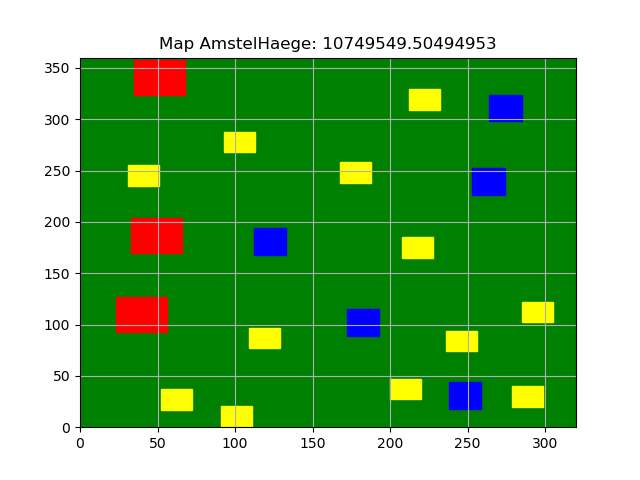
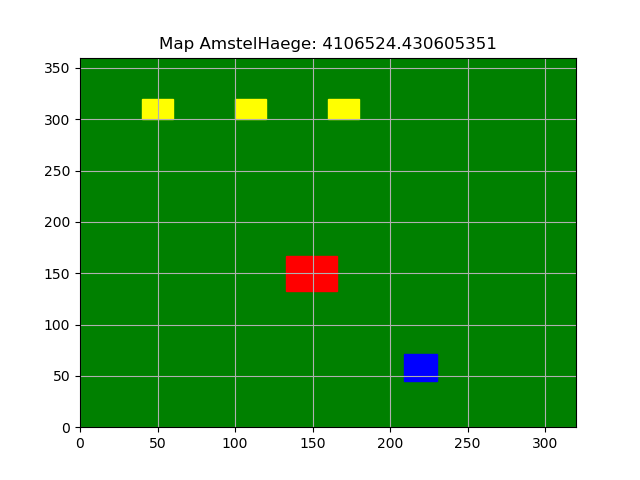
area back to what it was

diff --git a/AmstelHaege/code/hill_climber_rdm_sys.py b/AmstelHaege/code/hill_climber_rdm_sys.py
@@ -15,9 +15,9 @@ HEIGHT = 360
 
 def main():
 
-    rdm_amstelhaege = Area(20)
-    rdm_amstelhaege.place_houses()
-    # rdm_amstelhaege = greedy_obj_func.main()
+    # rdm_amstelhaege = Area(20)
+    # rdm_amstelhaege.place_houses()
+    rdm_amstelhaege = greedy_obj_func.main()
     rdm_amstelhaege.calculate_totalvalue()
     total_value = rdm_amstelhaege.value
     rdm_amstelhaege.plot_distribution()
@@ -28,52 +28,56 @@ def main():
     print(starttime.strftime("%Y-%m-%d %H:%M:%S") +"\n")
     values = []
 
-    for i in range(10):
-        index = randint(0, (len(rdm_amstelhaege.houses_placed) - 1))
-        print(index)
+    try:
+        for i in range(10):
+            index = randint(0, (len(rdm_amstelhaege.houses_placed) - 1))
+            print(index)
 
-        for y in range(0, rdm_amstelhaege.height - rdm_amstelhaege.houses_placed[index].height, 1):
-            for x in range(0, rdm_amstelhaege.width - rdm_amstelhaege.houses_placed[index].width, 1):
-                old_x = rdm_amstelhaege.houses_placed[index].x
-                old_y = rdm_amstelhaege.houses_placed[index].y
+            for y in range(0, rdm_amstelhaege.height - rdm_amstelhaege.houses_placed[index].height, 1):
+                for x in range(0, rdm_amstelhaege.width - rdm_amstelhaege.houses_placed[index].width, 1):
+                    old_x = rdm_amstelhaege.houses_placed[index].x
+                    old_y = rdm_amstelhaege.houses_placed[index].y
 
-                rdm_amstelhaege.move_house(index, x, y)
-                # print(x,y)
+                    rdm_amstelhaege.move_house(index, x, y)
+                    # print(x,y)
 
-                # if rdm_amstelhaege.legit_placement(house):
-                not_possible = 0
-                if not rdm_amstelhaege.houses_placed[index].in_map():
-                    not_possible += 1
-                    rdm_amstelhaege.move_house(index, old_x, old_y)
-                    # print("bye")
-
-                else:
-                    for object in rdm_amstelhaege.houses_placed:
-                        if not object == rdm_amstelhaege.houses_placed[index]:
-                            if rdm_amstelhaege.houses_placed[index].intersect(object):
-                                not_possible += 1
-                                rdm_amstelhaege.move_house(index, old_x, old_y)
-                            # print(index)
-
-                if not_possible == 0:
-                    # print("hoi")
-                    rdm_amstelhaege.calculate_totalvalue()
-                    # print(rdm_amstelhaege.value)
-                    # rdm_amstelhaege.plot_distribution()
-
-                    if rdm_amstelhaege.value > total_value:
-                        total_value = rdm_amstelhaege.value
-                        values.append(rdm_amstelhaege.value)
-                        # best_plot = rdm_amstelhaege
-                        # rdm_amstelhaege.plot_distribution()
-                        # print("more")
-                        # file.write(str(total_value)+ "\n")
-                        # print(total_value)
-                        # print(rdm_amstelhaege.houses_placed[0].x)
-                        # print(rdm_amstelhaege.houses_placed[1].x)
-                    else:
+                    # if rdm_amstelhaege.legit_placement(house):
+                    not_possible = 0
+                    if not rdm_amstelhaege.houses_placed[index].in_map():
+                        not_possible += 1
                         rdm_amstelhaege.move_house(index, old_x, old_y)
-        index += 1
+                        # print("bye")
+
+                    else:
+                        for object in rdm_amstelhaege.houses_placed:
+                            if not object == rdm_amstelhaege.houses_placed[index]:
+                                if rdm_amstelhaege.houses_placed[index].intersect(object):
+                                    not_possible += 1
+                                    rdm_amstelhaege.move_house(index, old_x, old_y)
+                                # print(index)
+
+                    if not_possible == 0:
+                        # print("hoi")
+                        rdm_amstelhaege.calculate_totalvalue()
+                        # print(rdm_amstelhaege.value)
+                        # rdm_amstelhaege.plot_distribution()
+
+                        if rdm_amstelhaege.value > total_value:
+                            total_value = rdm_amstelhaege.value
+                            values.append(rdm_amstelhaege.value)
+                            # best_plot = rdm_amstelhaege
+                            # rdm_amstelhaege.plot_distribution()
+                            # print("more")
+                            # file.write(str(total_value)+ "\n")
+                            # print(total_value)
+                            # print(rdm_amstelhaege.houses_placed[0].x)
+                            # print(rdm_amstelhaege.houses_placed[1].x)
+                        else:
+                            rdm_amstelhaege.move_house(index, old_x, old_y)
+            index += 1
+
+    except KeyboardInterrupt:
+        print(values)
 
     endtime = datetime.datetime.now()
     print(endtime.strftime("%Y-%m-%d %H:%M:%S")+ "\n")

diff --git a/AmstelHaege/code/class_area.py b/AmstelHaege/code/class_area.py
@@ -78,14 +78,13 @@ class Area(object):
 
         while len(self.houses_placed) < self.amount_houses:
              if len(self.houses_placed) < (self.amount_houses * self.portions[0]):
-                 count = 0
                  x = randint(0, self.width)
                  y = randint(0, self.height)
                  new_house = House(x, y, 0)
                  house_rect = new_house.rectangle()
                  new_house.get_coordinates(house_rect)
-                 if not new_house.in_map():
-                     count += 1
+                 if new_house.in_map():
+                     count = 0
 
                      for house in self.houses_placed:
                          if new_house.intersect(house):
@@ -96,14 +95,13 @@ class Area(object):
                          self.houses_placed.append(new_house)
 
              elif len(self.houses_placed) < ((self.amount_houses * self.portions[0]) + (self.amount_houses * self.portions[1])):
-                 count = 0
                  x = randint(0, self.width)
                  y = randint(0, self.height)
                  new_house = Bungalow(x, y, 0)
                  house_rect = new_house.rectangle()
                  new_house.get_coordinates(house_rect)
-                 if not new_house.in_map():
-                     count += 1
+                 if new_house.in_map():
+                     count = 0
 
                      for house in self.houses_placed:
                          if new_house.intersect(house):
@@ -114,14 +112,13 @@ class Area(object):
                          self.houses_placed.append(new_house)
 
              else:
-                 count = 0
                  x = randint(0, self.width)
                  y = randint(0, self.height)
                  new_house = Maison(x, y, 0)
                  house_rect = new_house.rectangle()
                  new_house.get_coordinates(house_rect)
-                 if not new_house.in_map():
-                     count += 1
+                 if new_house.in_map():
+                     count = 0
 
                      for house in self.houses_placed:
                          if new_house.intersect(house):

diff --git a/AmstelHaege/code/hill_climber_systematic.py b/AmstelHaege/code/hill_climber_systematic.py
@@ -93,7 +93,7 @@ def main():
     # print(best_plot.houses_placed[0].x)
     # print(best_plot.houses_placed[1].x)
     fig = rdm_amstelhaege.plot_distribution()
-    fig.savefig('test2.png')
+    fig.savefig('test3.png')
 
 if __name__ == "__main__":
     main()

diff --git a/AmstelHaege/code/greedy_obj_func.py b/AmstelHaege/code/greedy_obj_func.py
@@ -27,7 +27,7 @@ start_time = time.process_time()
 
 def main():
     counter = 0
-    amstelhaege = Area(5)
+    amstelhaege = Area(20)
     # house = House(0, 0, 0)
     # bungalow = Bungalow(0, 0, 0)
     # maison = Maison(0, 0, 0)
